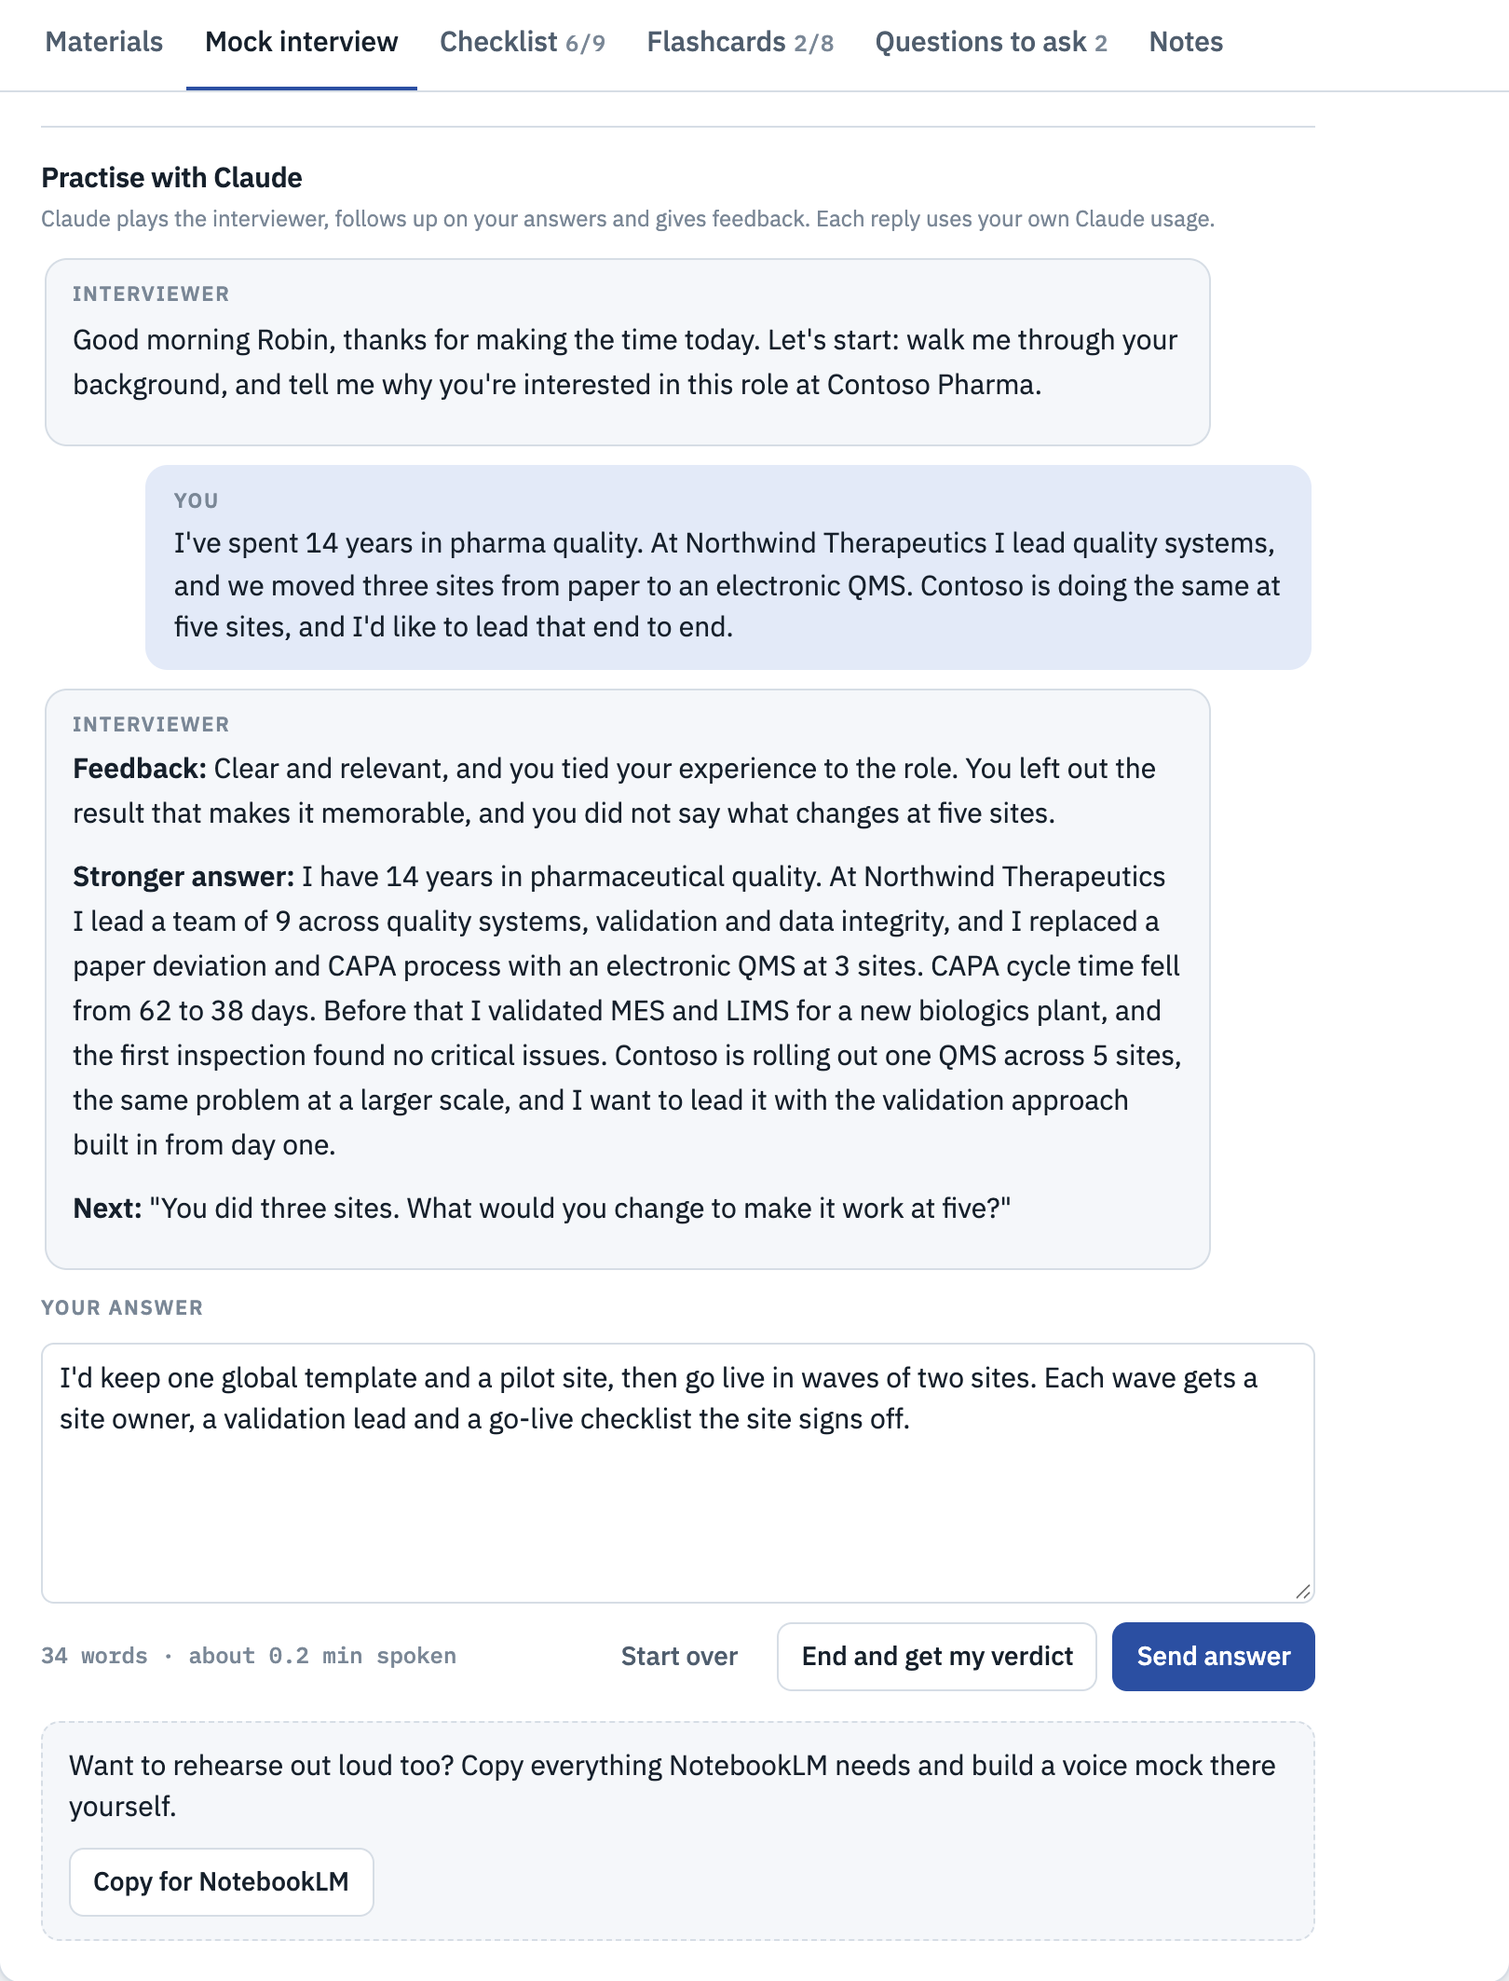
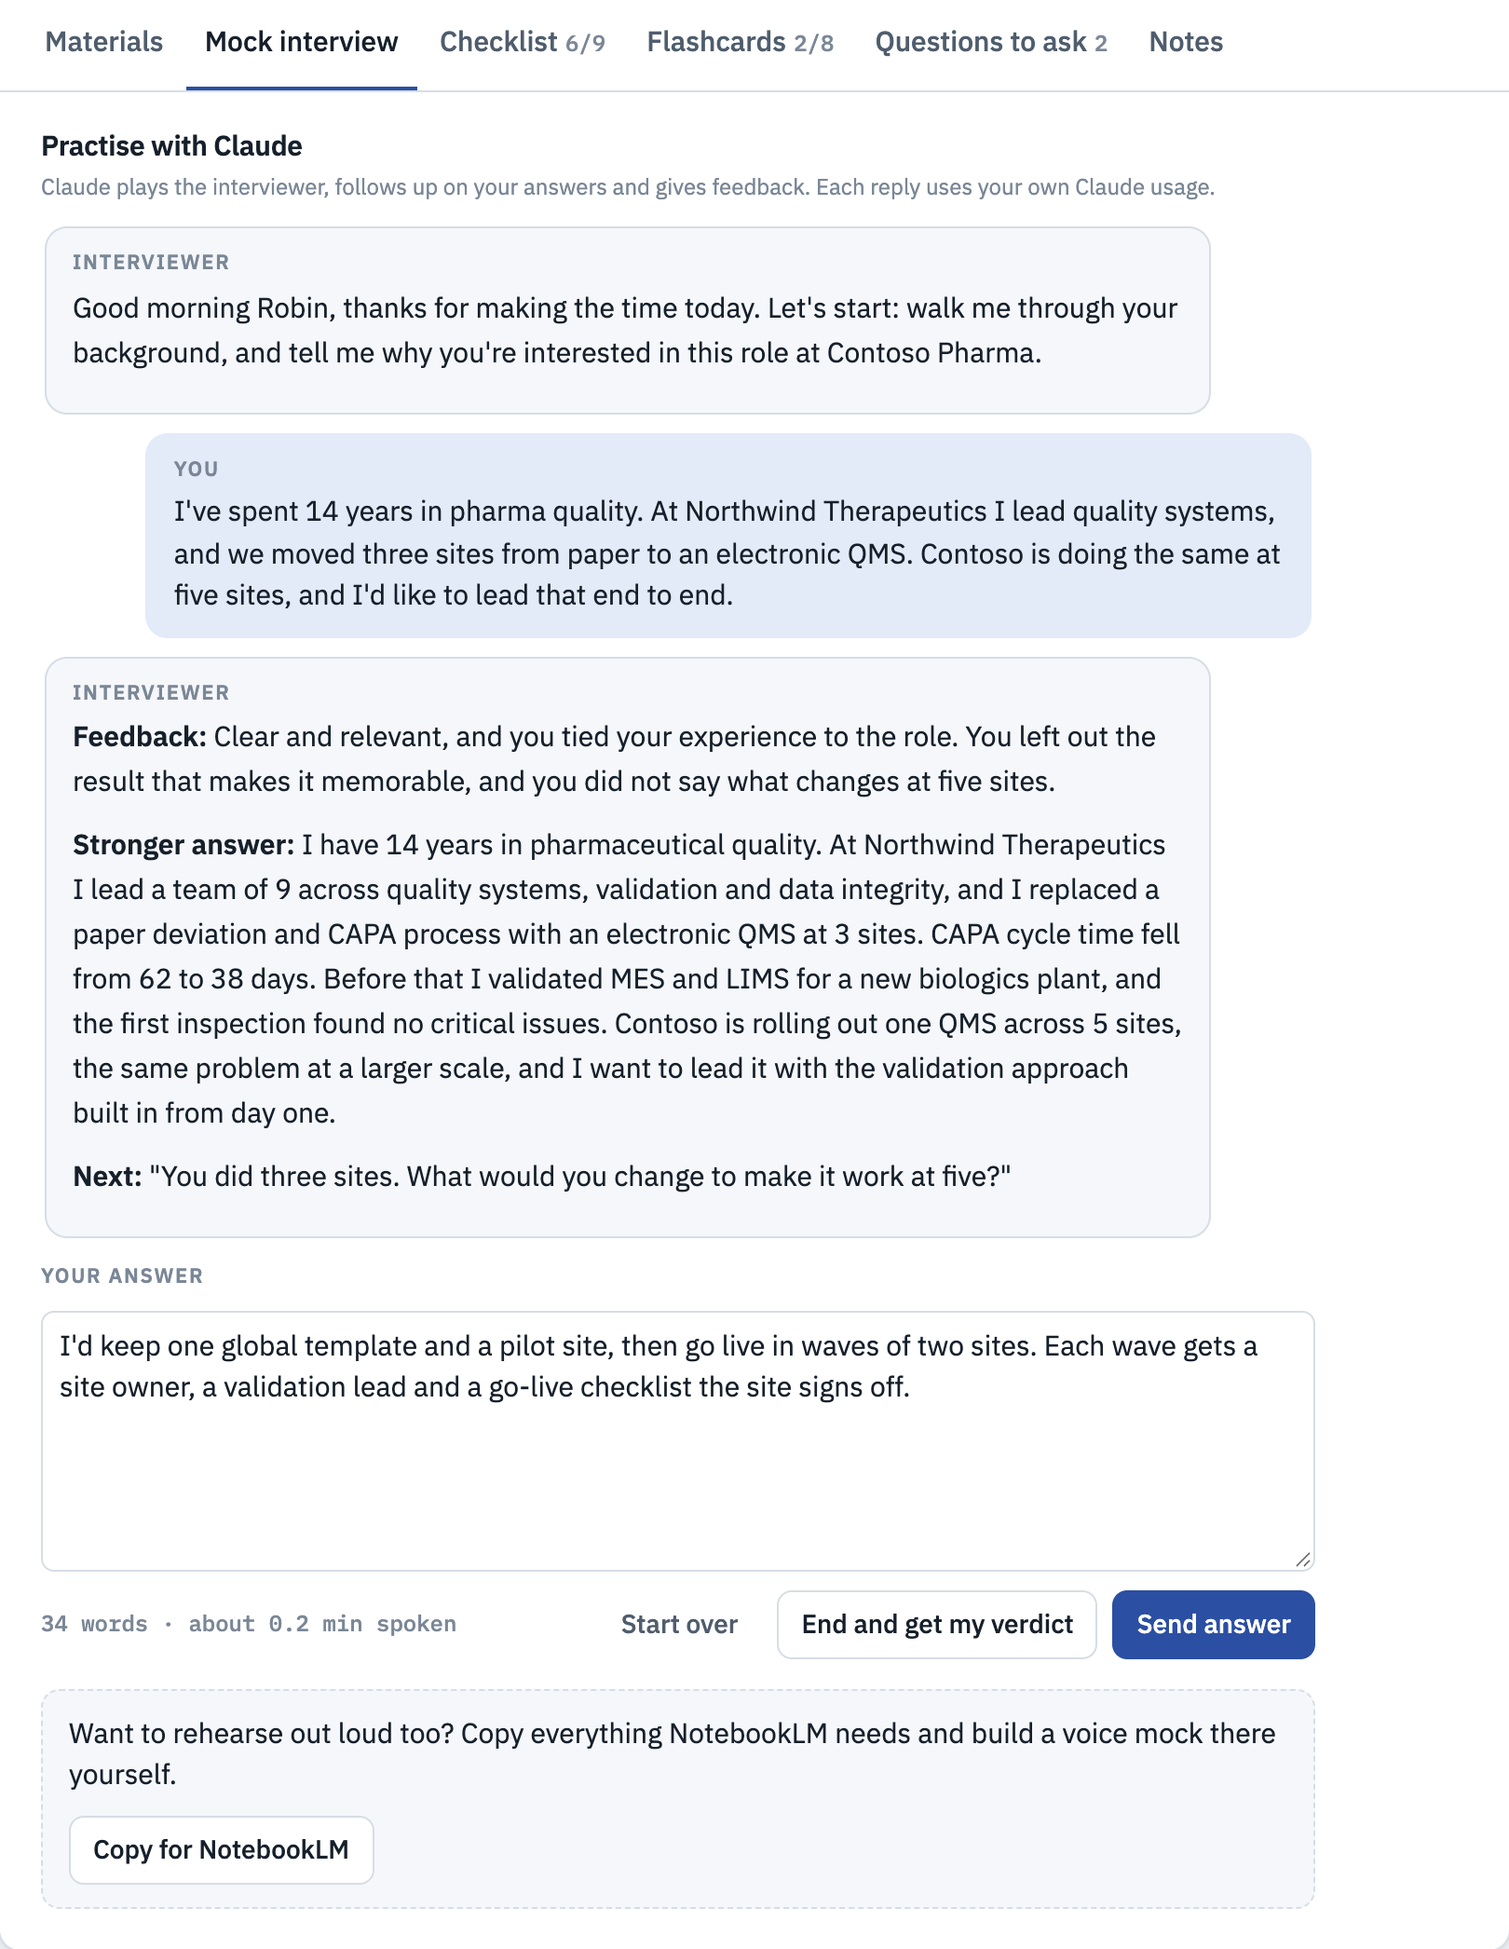
fix(dashboard): chat, quiz and prep-request fixes for core 0.1.3
- No divider above the practice chat when the voice add-on is off.
- The first practice-chat request redraws right away when it fails or is
  stopped, with an error that fits a start rather than an answer.
- Read-only viewers see their last quiz answer marked right away.
- A reply streaming for one interview no longer shows in another
  interview's chat; that chat waits with a note until the reply is done.
- Past and example interviews no longer offer a prep request that the
  morning prep skips; they say why instead.
- data-model.md: voice.practised is keyed by the 0-based question index.
- check.mjs tests prepSkipped(); two guide screenshots regenerated.

Each case was reproduced in headless Chrome with a stubbed db and sample
before the fix and passes after it.

diff --git a/plugins/interview-prep-desk/dashboard/interview-prep-desk.html b/plugins/interview-prep-desk/dashboard/interview-prep-desk.html
@@ -208,6 +208,7 @@ a.btn{text-decoration:none}
 
 /* practice chat */
 .chat{display:flex;flex-direction:column;gap:10px;border-top:1px solid var(--line);padding-top:16px}
+.mock > .chat:first-child{border-top:0;padding-top:0}
 .chat-head{display:flex;flex-direction:column;gap:2px}
 .chat-log{display:flex;flex-direction:column;gap:10px;max-height:560px;overflow-y:auto;padding:2px}
 .bub{border:1px solid var(--line);border-radius:12px;padding:10px 14px;max-width:92%;display:flex;flex-direction:column;gap:4px;min-width:0}
@@ -415,6 +416,8 @@ S.tab = tryLS(() => localStorage.getItem('prep.tab'), null) || 'materials';
 // ---------- dates ----------
 function parseDate(s){ const m = /^(\d{4})-(\d{2})-(\d{2})$/.exec(s||''); return m ? new Date(+m[1], +m[2]-1, +m[3]) : null; }
 function daysUntil(s){ const d = parseDate(s); if(!d) return null; const t = new Date(); t.setHours(0,0,0,0); return Math.round((d - t)/86400000); }
+// The morning prep skips example records and past interviews (reference/data-model.md, "Who picks what").
+function prepSkipped(it){ if(it.example === true) return 'example'; const n = daysUntil(it.date); return n !== null && n < 0 ? 'past' : ''; }
 function fmtDate(s){ const d = parseDate(s); return d ? d.toLocaleDateString(undefined,{weekday:'short', day:'numeric', month:'short'}) : 'No date'; }
 function whenText(n){ if(n===null) return 'No date'; if(n===0) return 'Today'; if(n===1) return 'Tomorrow'; if(n<0) return n===-1 ? 'Yesterday' : `${-n} days ago`; return `In ${n} days`; }
 
@@ -565,7 +568,7 @@ function renderDetail(){
         <div><span class="label">Focus</span><span>${esc(it.focus||'Not set')}</span></div>
         <div><span class="label">Job posting</span><span>${linkOr(it.job_link,'Open posting') || 'No link'}${it.jd?' · description saved':''}</span></div>
         ${voiceOn(it) ? `<div><span class="label">NotebookLM</span><span>${linkOr(it.notebook_url,'Open mock interview') || (it.voiceRequested ? 'Queued for the next voice run' : 'No notebook yet')}</span></div>` : ''}
-        <div><span class="label">Prep</span><span>${it.materials?.generatedAt ? 'Prepared ' + esc(syncText(it.materials.generatedAt)) : it.prepRequested || (n!==null && n>=0 && n<=7) ? 'Queued for the next morning run' : n===null ? 'Add a date, or request prep' : 'Starts 7 days before'}</span></div>
+        <div><span class="label">Prep</span><span>${it.materials?.generatedAt ? 'Prepared ' + esc(syncText(it.materials.generatedAt)) : prepSkipped(it) === 'example' ? 'Not prepared: example interview' : prepSkipped(it) === 'past' ? 'Not prepared: the date has passed' : it.prepRequested || (n!==null && n>=0 && n<=7) ? 'Queued for the next morning run' : n===null ? 'Add a date, or request prep' : 'Starts 7 days before'}</span></div>
       </div>
       <div class="ready"><span class="label" style="white-space:nowrap">Ready</span><span class="bar"><i style="width:${r*100}%"></i></span><span class="mono" style="font-size:13px">${Math.round(r*100)}%</span></div>
     </div>
@@ -588,6 +591,7 @@ function syncText(s){
 function prepChip(it){
   if(it.prepError) return `<span class="chip crit" title="${esc(it.prepError)}">Last prep run failed</span>`;
   if(it.materials?.generatedAt) return `<span class="chip acc">Materials ready</span>`;
+  if(prepSkipped(it)) return `<span class="chip">Not prepared</span>`;
   if(it.prepRequested) return `<span class="chip">Prep queued</span>`;
   return `<span class="chip">Materials pending</span>`;
 }
@@ -596,14 +600,16 @@ function lastSync(){ return S.items.map(x => x.syncedAt).filter(Boolean).sort().
 function materialsBody(it){
   const m = it.materials || {}, ro = S.readOnly ? 'disabled' : '';
   if(!m.generatedAt){
-    const n = daysUntil(it.date);
-    const when = it.prepRequested || (n!==null && n>=0 && n<=7) ? 'This interview is queued. The materials appear here after the next morning run.' : n===null ? 'Add a date, or request prep now and it will be prepared on the next morning run.' : 'Prep starts automatically 7 days before the interview. You can also request it now.';
+    const n = daysUntil(it.date), skip = prepSkipped(it);
+    const when = skip === 'example' ? 'This is an example interview, so the morning prep skips it. Add a real interview to get materials.'
+      : skip === 'past' ? 'This interview has passed, so the morning prep skips it.'
+      : it.prepRequested || (n!==null && n>=0 && n<=7) ? 'This interview is queued. The materials appear here after the next morning run.' : n===null ? 'Add a date, or request prep now and it will be prepared on the next morning run.' : 'Prep starts automatically 7 days before the interview. You can also request it now.';
     return `<div class="empty" style="padding:8px 0">
       <h3>No materials yet</h3>
       <div class="muted">${when}</div>
       <div class="muted" style="font-size:14px">Each morning Claude researches the company and role, reads your profile, and writes a briefing, FAQ answers, a quiz and flashcards.</div>
       ${!S.profile?.markdown?'<div class="callout"><span>Add your CV so the answers use your real experience.</span><button class="btn" type="button" data-act="profile">Add profile</button></div>':''}
-      <div style="display:flex;gap:8px;flex-wrap:wrap">${it.prepRequested?'':`<button class="btn primary" type="button" data-act="request" ${ro}>Request prep for the next run</button>`}<button class="btn" type="button" data-act="nlm">Copy job and profile for NotebookLM</button></div>
+      <div style="display:flex;gap:8px;flex-wrap:wrap">${it.prepRequested || skip ? '' : `<button class="btn primary" type="button" data-act="request" ${ro}>Request prep for the next run</button>`}<button class="btn" type="button" data-act="nlm">Copy job and profile for NotebookLM</button></div>
       ${it.prepError?`<div class="err">Last run: ${esc(it.prepError)}</div>`:''}
     </div>`;
   }
@@ -617,7 +623,7 @@ function materialsBody(it){
   else body = src.length ? `<ol class="srcs">${src.map(s => `<li>${/^https?:\/\//.test(s.u||'')?`<a href="${esc(s.u)}" target="_blank" rel="noopener">${esc(s.t||s.u)}</a>`:esc(s.t||'')}</li>`).join('')}</ol>` : '<div class="muted">No sources listed.</div>';
   return `<div style="display:flex;flex-wrap:wrap;justify-content:space-between;gap:8px;align-items:flex-start">
       <div class="seg" role="group" aria-label="Materials">${subs.map(([k,l]) => `<button type="button" data-sub="${k}" aria-pressed="${S.sub===k}">${l}</button>`).join('')}</div>
-      <span class="saved"><button class="btn" type="button" data-act="nlm" style="padding:4px 10px;font-size:13px">Copy for NotebookLM</button> Prepared ${esc(syncText(m.generatedAt))}${it.prepRequested?' · refresh queued':''} ${it.prepRequested?'':`<button class="btn ghost" type="button" data-act="request" style="padding:2px 8px;font-size:12px" ${ro}>Refresh next run</button>`}</span>
+      <span class="saved"><button class="btn" type="button" data-act="nlm" style="padding:4px 10px;font-size:13px">Copy for NotebookLM</button> Prepared ${esc(syncText(m.generatedAt))}${it.prepRequested?' · refresh queued':''} ${it.prepRequested || prepSkipped(it) ? '' : `<button class="btn ghost" type="button" data-act="request" style="padding:2px 8px;font-size:12px" ${ro}>Refresh next run</button>`}</span>
     </div>${body}`;
 }
 function quizBody(it, quiz){
@@ -692,6 +698,12 @@ const CHAT_ERR = {
   empty_completion: 'Claude returned nothing. Send your answer again.',
   upstream_error: 'The connection dropped. Your answer is back in the box, so send it again.'
 };
+// When the very first request fails there is no answer to send again.
+const START_ERR = {
+  rate_limited: 'Claude is busy or your usage limit is reached. Wait a minute, then start again.',
+  session_expired: 'Your claude.ai session has expired. Sign in again, then start again.',
+  other: 'The mock interview could not start. Try again.'
+};
 function chatFor(it){
   if(S.chat.id !== it.id && !S.chat.busy) S.chat = {id:it.id, busy:false, ctl:null, draft:'', streaming:'', pendingAnswer:'', error:'', confirmReset:false};
   return S.chat;
@@ -745,25 +757,28 @@ function chatBody(it){
   const head = '<div class="chat-head"><h3>Practise with Claude</h3><span class="saved">Claude plays the interviewer, follows up on your answers and gives feedback. Each reply uses your own Claude usage.</span></div>';
   if(S.sampleState === 'loading') return `<div class="chat">${head}<div class="muted" style="font-size:14px">Connecting to Claude…</div></div>`;
   if(S.sampleState === 'off' || !S.sample) return `<div class="chat">${head}<div class="muted" style="font-size:14px">The practice chat works when you open this dashboard on claude.ai or in the Claude app and allow it to use Claude.</div></div>`;
-  const C = chatFor(it), turns = chatTurns(it), ro = S.readOnly ? 'disabled' : '';
-  const started = turns.length > 0 || C.busy;
+  const C = chatFor(it), turns = chatTurns(it);
+  // Only one request runs at a time. While it runs for another interview, this chat shows its own turns and waits.
+  const busy = C.busy && C.id === it.id, elsewhere = C.busy && !busy, off = S.readOnly || elsewhere ? 'disabled' : '', draft = elsewhere ? '' : C.draft;
+  const started = turns.length > 0 || busy;
   const log = turns.map(t => bubble(t.r, t.t)).join('')
-    + (C.busy && C.pendingAnswer ? bubble('c', C.pendingAnswer) : '')
-    + (C.busy ? `<div class="bub i"><div class="label">Interviewer</div><div class="md" id="chat-stream">${C.streaming ? md(C.streaming) : '<span class="muted">Thinking…</span>'}</div></div>` : '');
+    + (busy && C.pendingAnswer ? bubble('c', C.pendingAnswer) : '')
+    + (busy ? `<div class="bub i"><div class="label">Interviewer</div><div class="md" id="chat-stream">${C.streaming ? md(C.streaming) : '<span class="muted">Thinking…</span>'}</div></div>` : '');
   return `<div class="chat">${head}
     ${started ? `<div class="chat-log" id="chat-log" aria-live="polite">${log}</div>` : ''}
-    ${C.error ? `<div class="err">${esc(C.error)}</div>` : ''}
-    ${!started ? `<div><button class="btn primary" type="button" data-act="chat-start" ${ro}>Start the mock interview</button></div>` : `
+    ${C.error && !elsewhere ? `<div class="err">${esc(C.error)}</div>` : ''}
+    ${elsewhere ? `<div class="muted busy-note" style="font-size:14px">Claude is still answering in the practice chat for another interview. You can continue here when that reply is done.</div>` : ''}
+    ${!started ? `<div><button class="btn primary" type="button" data-act="chat-start" ${off}>Start the mock interview</button></div>` : `
     <label class="label" for="chat-input">Your answer</label>
-    <textarea id="chat-input" placeholder="Type your answer, or use your computer's dictation to speak it." ${C.busy || S.readOnly ? 'disabled' : ''}>${esc(C.draft)}</textarea>
+    <textarea id="chat-input" placeholder="Type your answer, or use your computer's dictation to speak it." ${busy || off ? 'disabled' : ''}>${esc(draft)}</textarea>
     <div class="chat-actions">
-      <span class="saved mono" id="chat-count">${esc(countText(C.draft))}</span>
-      <span style="display:flex;gap:8px;flex-wrap:wrap">${C.busy ? '<button class="btn" type="button" data-act="chat-stop">Stop</button>' : `
-        <button class="btn ghost" type="button" data-act="chat-reset" ${ro}>Start over</button>
-        <button class="btn" type="button" data-act="chat-end" ${ro}>End and get my verdict</button>
-        <button class="btn primary" type="button" data-act="chat-send" ${ro}>Send answer</button>`}</span>
+      <span class="saved mono" id="chat-count">${esc(countText(draft))}</span>
+      <span style="display:flex;gap:8px;flex-wrap:wrap">${busy ? '<button class="btn" type="button" data-act="chat-stop">Stop</button>' : `
+        <button class="btn ghost" type="button" data-act="chat-reset" ${off}>Start over</button>
+        <button class="btn" type="button" data-act="chat-end" ${off}>End and get my verdict</button>
+        <button class="btn primary" type="button" data-act="chat-send" ${off}>Send answer</button>`}</span>
     </div>
-    ${C.confirmReset ? '<div class="confirm">Clear this practice conversation? <button class="btn danger" type="button" data-act="chat-reset-yes">Clear</button><button class="btn ghost" type="button" data-act="chat-reset-no">Keep</button></div>' : ''}`}
+    ${C.confirmReset && !elsewhere ? '<div class="confirm">Clear this practice conversation? <button class="btn danger" type="button" data-act="chat-reset-yes">Clear</button><button class="btn ghost" type="button" data-act="chat-reset-no">Keep</button></div>' : ''}`}
   </div>`;
 }
 async function chatCall(it, turns){
@@ -783,7 +798,7 @@ async function chatCall(it, turns){
     const code = e && e.code;
     C.busy = false; C.streaming = ''; C.ctl = null;
     if(CHAT_OFF.includes(code)){ S.sampleState = 'off'; C.error = ''; }
-    else C.error = code === 'cancelled' ? '' : (CHAT_ERR[code] || CHAT_ERR.upstream_error);
+    else C.error = code === 'cancelled' ? '' : turns.length ? (CHAT_ERR[code] || CHAT_ERR.upstream_error) : (START_ERR[code] || START_ERR.other);
     return false;
   }
 }
@@ -938,7 +953,7 @@ document.addEventListener('click', e => {
   if(t.dataset.qi !== undefined && it){
     const quiz = it.materials?.quiz || [], A = S.quiz[it.id] || (S.quiz[it.id] = {});
     A[+t.dataset.qi] = +t.dataset.qo;
-    if(Object.keys(A).length === quiz.length && quiz.length){
+    if(Object.keys(A).length === quiz.length && quiz.length && !S.readOnly){
       const right = quiz.filter((q,i) => A[i] === q.a).length;
       save(it.id, {quizScore:`${right}/${quiz.length}`, checks:{quiz:true}});
     } else renderDetail();
@@ -960,7 +975,7 @@ document.addEventListener('click', e => {
   if(a==='del-yes'){ S.confirmDel = false; return removeItem(it.id); }
   if(a==='request') return save(it.id, {prepRequested:true, prepError:''});
   if(a==='voice-request') return save(it.id, {voiceRequested:true});
-  if(a==='chat-start'){ if(S.sample && !S.chat.busy && !S.readOnly) chatCall(it, []); return; }
+  if(a==='chat-start'){ if(S.sample && !S.chat.busy && !S.readOnly) chatCall(it, []).then(ok => { if(!ok) renderDetail(); }); return; }
   if(a==='chat-send') return chatSend(it, $('#chat-input')?.value);
   if(a==='chat-end') return chatSend(it, "Let's stop here. What is your verdict, and what should I fix first?");
   if(a==='chat-stop'){ S.chat.ctl?.abort(); return; }

diff --git a/plugins/interview-prep-desk/reference/data-model.md b/plugins/interview-prep-desk/reference/data-model.md
@@ -42,7 +42,7 @@ For example "Société Générale" with no date gives `societe-generale-undated`
 | `voiceRequested` | boolean | user sets true, voice add-on sets false | Queues a voice mock. |
 | `notebook_url` | URL | voice add-on | |
 | `voice` | object | voice add-on | `status` (`generating`, `ready` or `failed`), `audioTitle`, `audioId`, `script` (the questions), `updatedAt`, `error`. |
-| `voice.practised` | object of booleans, keyed by question number | user | Ticked questions. The voice add-on deletes it only when it writes a new script. |
+| `voice.practised` | object of booleans, keyed by the 0-based question index | user | Ticked questions. The voice add-on deletes it only when it writes a new script. |
 | `mockChat` | object | dashboard | `turns` (`{r, t}`, where `r` is `i` for interviewer or `c` for candidate) and `updatedAt`. |
 | `createdAt` | ISO 8601 | creator | |
 | `example` | boolean | creator | `true` marks a sample record. Routines skip it. |

diff --git a/README.md b/README.md
@@ -8,7 +8,7 @@ Add an interview from a job link. Every morning a routine researches the company
 
 New here? The [step-by-step guide](docs/guide.md) takes you from install to interview day, with the exact commands and screenshots.
 
-> Status: early (core 0.1.2). Built for personal use and shared as is.
+> Status: early (core 0.1.3). Built for personal use and shared as is.
 
 ## What you get
 
